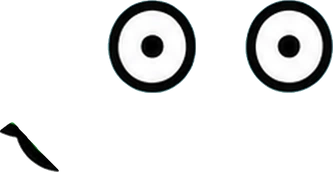
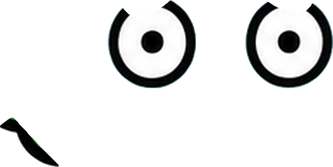
アフロ馬メーカー: 塗りかえの取りこぼしと、目とまゆの二重を直した
塗りかえ: 下地の色から一定の距離までしか塗っていなかったので、
黒い線とのにじみが取り残され、フチに元の色（緑や桃）が残っていた。
どの画素も「いちばん近い下地の色」に必ず割りあてる形に変更。
線のそばだけ弱めて輪郭は守る。

目とまゆ: 目のコマにまゆが、まゆのコマに目が描かれていた。
まゆのシートの9コマすべてに共通する部分＝いつも描かれている目、
と見つけて引くことで、それぞれのパーツだけを取り出した。

diff --git a/maker.html b/maker.html
@@ -343,20 +343,36 @@
     base = g.getImageData(0, 0, SIZE, SIZE);
     var d = base.data, n = SIZE * SIZE;
 
+    /* どの画素も「いちばん近い下地の色」に必ず割りあてる。
+       距離で切ると、線とのにじみが取り残されて
+       元の色（緑や桃）がフチに残ってしまうため。
+
+       黒い線のそばだけは弱める。そうしないと輪郭まで塗れてしまう */
+    var arrs = [];
     for (var k = 0; k < PARTS.length; k++) {
-      var p = PARTS[k];
-      var arr = new Uint8Array(n);
-      var kr = p.key[0], kg = p.key[1], kb = p.key[2];
-      var full = p.r, fade = p.r + 40;
-      for (var i = 0, j = 0; i < n; i++, j += 4) {
-        if (d[j + 3] < 8) continue;
-        var dr = d[j] - kr, dg = d[j + 1] - kg, db = d[j + 2] - kb;
-        var dist = Math.sqrt(dr * dr + dg * dg + db * db);
-        if (dist >= fade) continue;
-        var w = dist <= full ? 1 : (fade - dist) / (fade - full);
-        arr[i] = Math.round(w * (d[j + 3] / 255) * 255);
+      arrs.push(new Uint8Array(n));
+      W[PARTS[k].id] = arrs[k];
+    }
+    for (var i = 0, j = 0; i < n; i++, j += 4) {
+      var al = d[j + 3];
+      if (al < 8) continue;
+      var r0 = d[j], g0 = d[j + 1], b0 = d[j + 2];
+
+      /* 黒からの遠さ。線の上では 0 に近い */
+      var dk = Math.sqrt(r0 * r0 + g0 * g0 + b0 * b0);
+      if (dk < 45) continue;
+
+      var bi = -1, bd = 1e9;
+      for (var k2 = 0; k2 < PARTS.length; k2++) {
+        var key = PARTS[k2].key;
+        var dr = r0 - key[0], dg = g0 - key[1], db = b0 - key[2];
+        var dd = dr * dr + dg * dg + db * db;
+        if (dd < bd) { bd = dd; bi = k2; }
       }
-      W[p.id] = arr;
+      if (bi < 0) continue;
+
+      var w = Math.min(1, (dk - 45) / 45);
+      arrs[bi][i] = Math.round(w * (al / 255) * 255);
     }
   }
 
